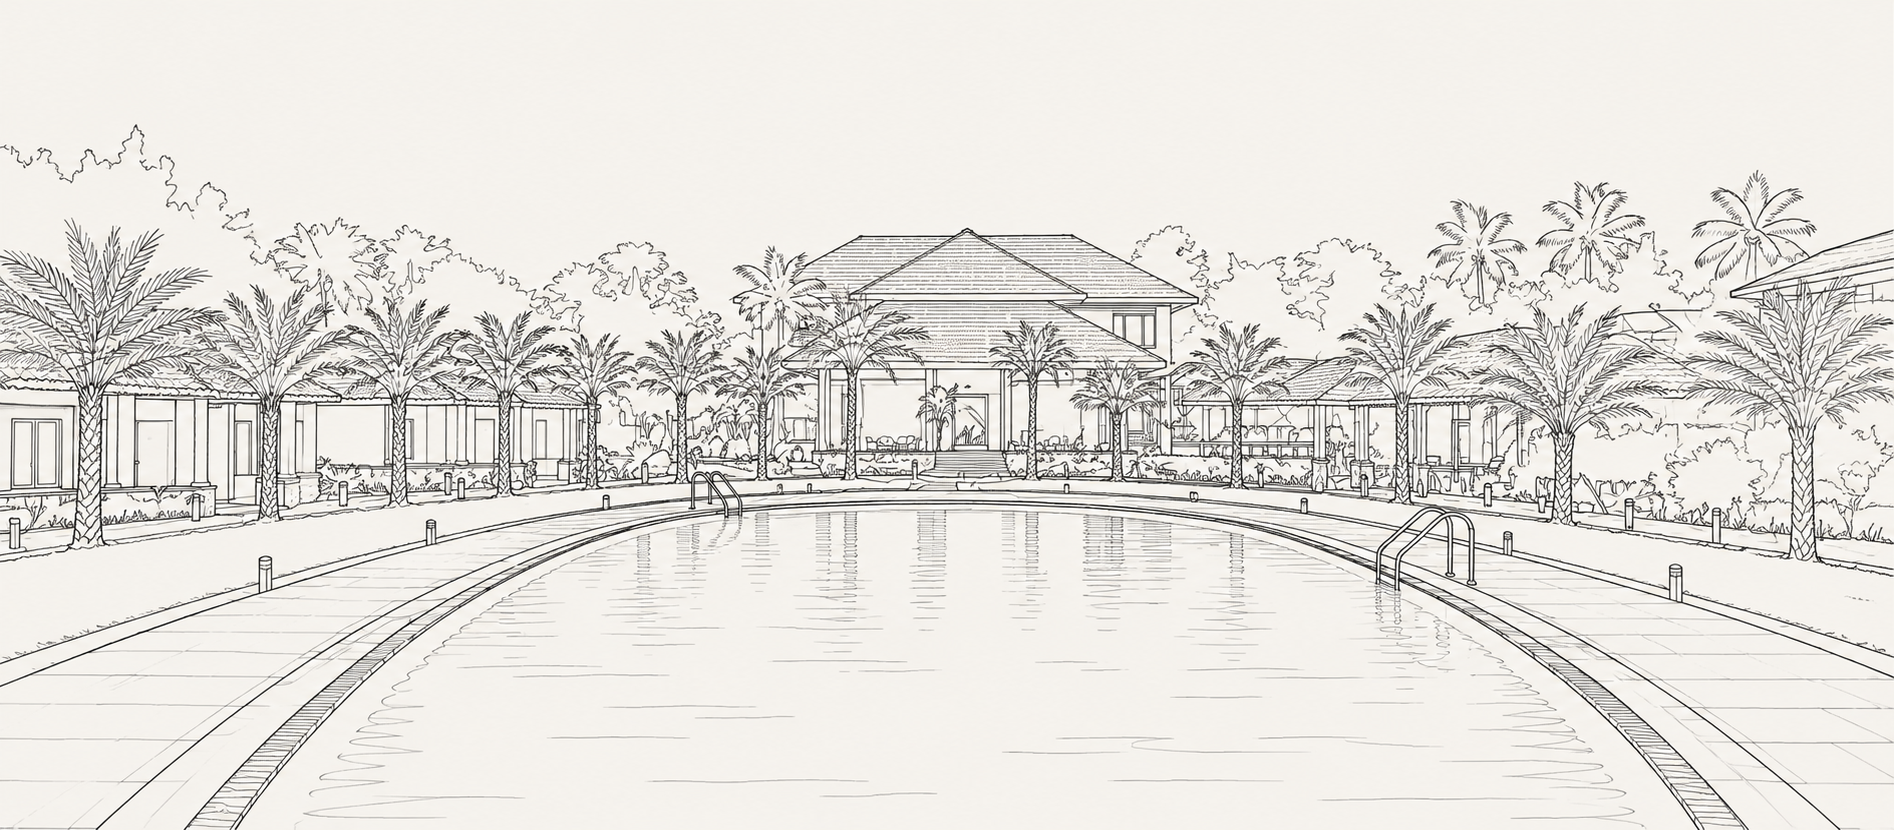
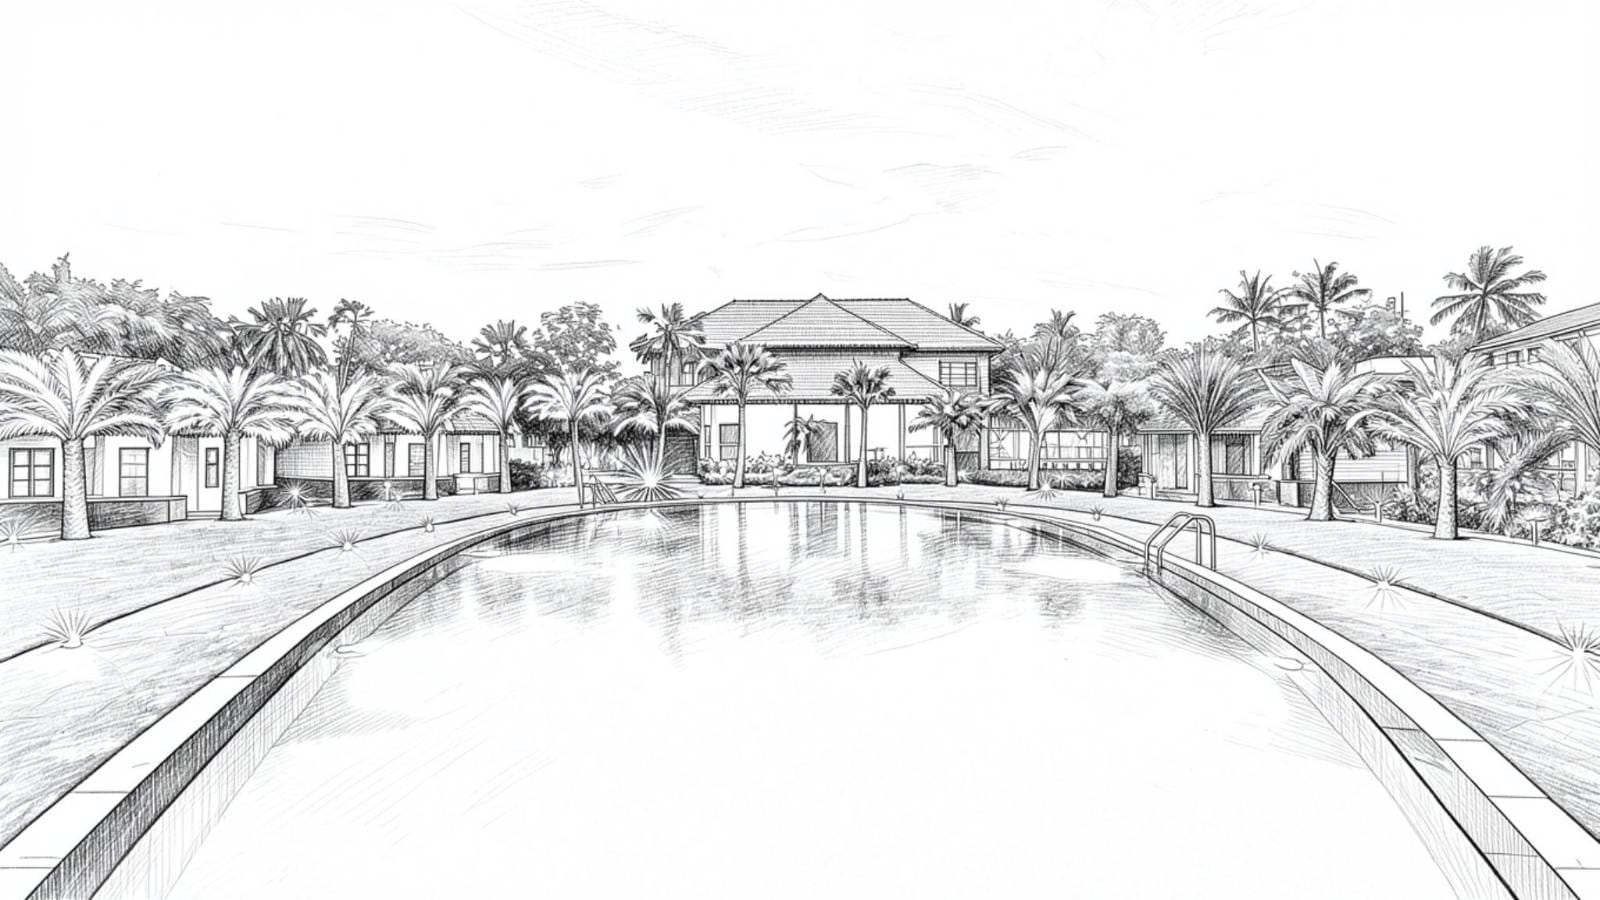
orginalimgadd22

diff --git a/src/pages/Home/index.tsx b/src/pages/Home/index.tsx
@@ -357,97 +357,6 @@ export const HomePage: React.FC = () => {
       </section>
 
       {/* ========================================================================= */}
-      {/* SECTION 4: FOUR PILLARS / METHODOLOGY */}
-      {/* ========================================================================= */}
-      <section className="relative py-28 sm:py-36 px-8 sm:px-12 lg:px-20 bg-[#F5F4F0] overflow-hidden">
-        {/* Background Image: principles_bg.jpg */}
-        <div className="absolute inset-0 pointer-events-none overflow-hidden z-0">
-          <img
-            src="/photos/principles_bg.jpg"
-            alt="TechPlus Architecture Curved Villa"
-            className="absolute right-0 top-0 h-full w-full object-cover object-right-top opacity-95"
-          />
-          {/* Left blend gradient */}
-          <div className="absolute inset-y-0 left-0 w-full lg:w-[65%] bg-gradient-to-r from-white via-white/95 via-white/80 to-transparent z-10" />
-          <div className="absolute inset-x-0 top-0 h-44 bg-gradient-to-b from-white via-white/90 via-white/50 to-transparent z-10" />
-          <div className="absolute inset-x-0 bottom-0 h-24 bg-gradient-to-t from-[#F5F4F0] to-transparent z-10" />
-        </div>
-
-        <div className="max-w-[1550px] mx-auto relative z-10 space-y-16">
-          <div className="max-w-3xl space-y-6">
-            <div className="flex items-center gap-3">
-              <span className="font-mono text-xs tracking-widest text-[#73736C] uppercase font-medium">
-                04 / ARCHITECTURAL PRINCIPLES
-              </span>
-              <div className="h-[1px] w-12 bg-[#141412]/30" />
-            </div>
-
-            <h2 className="font-display tracking-tight text-black text-4xl sm:text-6xl font-light leading-[1.05]">
-              <span className="font-semibold block mb-1">Crafting timeless built</span>
-              <span className="font-semibold block mb-1">environments with rigor and</span>
-              <span className="font-semibold block mb-1 text-[#8A8980] block ">sensitivity.</span>
-            </h2>
-          </div>
-
-          <div className="grid grid-cols-1 md:grid-cols-2 lg:grid-cols-4 gap-6">
-            {[
-              {
-                icon: Compass,
-                number: '01',
-                title: 'Site Specificity',
-                desc: 'Every project begins with deep listening to solar trajectories, wind paths, topography, and native ecology.',
-              },
-              {
-                icon: Layers,
-                number: '02',
-                title: 'Tectonic Clarity',
-                desc: 'Structures are designed with straightforward joints, honest load-bearing systems, and authentic raw materials.',
-              },
-              {
-                icon: Sparkles,
-                number: '03',
-                title: 'Sensory Atmosphere',
-                desc: 'We sculpt with indirect daylight, air currents, water acoustics, and tactile textures that age gracefully.',
-              },
-              {
-                icon: ShieldCheck,
-                number: '04',
-                title: 'Sustainable Longevity',
-                desc: 'Passive climate control and durable local construction ensure buildings endure for generations.',
-              },
-            ].map((pillar, i) => {
-              const Icon = pillar.icon;
-              return (
-                <motion.div
-                  key={pillar.number}
-                  initial={{ opacity: 0, y: 20 }}
-                  whileInView={{ opacity: 1, y: 0 }}
-                  viewport={{ once: true }}
-                  transition={{ duration: 0.6, delay: i * 0.1 }}
-                  className="p-8 rounded-3xl bg-[#F5F4F0]/85 backdrop-blur-xl border border-white/80 shadow-xl flex flex-col justify-between hover:shadow-2xl hover:scale-[1.02] transition-all min-h-[240px]"
-                >
-                  <div>
-                    <div className="flex items-center justify-between mb-6">
-                      <div className="w-10 h-10 rounded-xl bg-black/5 flex items-center justify-center text-[#141412]">
-                        <Icon className="w-5 h-5 text-[#141412]" />
-                      </div>
-                      <span className="font-mono text-xs text-[#73736C] font-semibold">{pillar.number}</span>
-                    </div>
-                    <h3 className="font-display text-2xl font-medium text-[#141412] mb-3">
-                      {pillar.title}
-                    </h3>
-                    <p className="text-xs text-[#6E6E65] leading-relaxed font-light">
-                      {pillar.desc}
-                    </p>
-                  </div>
-                </motion.div>
-              );
-            })}
-          </div>
-        </div>
-      </section>
-
-      {/* ========================================================================= */}
       {/* SECTION 5: CLIENT TESTIMONIALS (Infinite Columns Animated Stream) */}
       {/* ========================================================================= */}
       <Testimonials />
